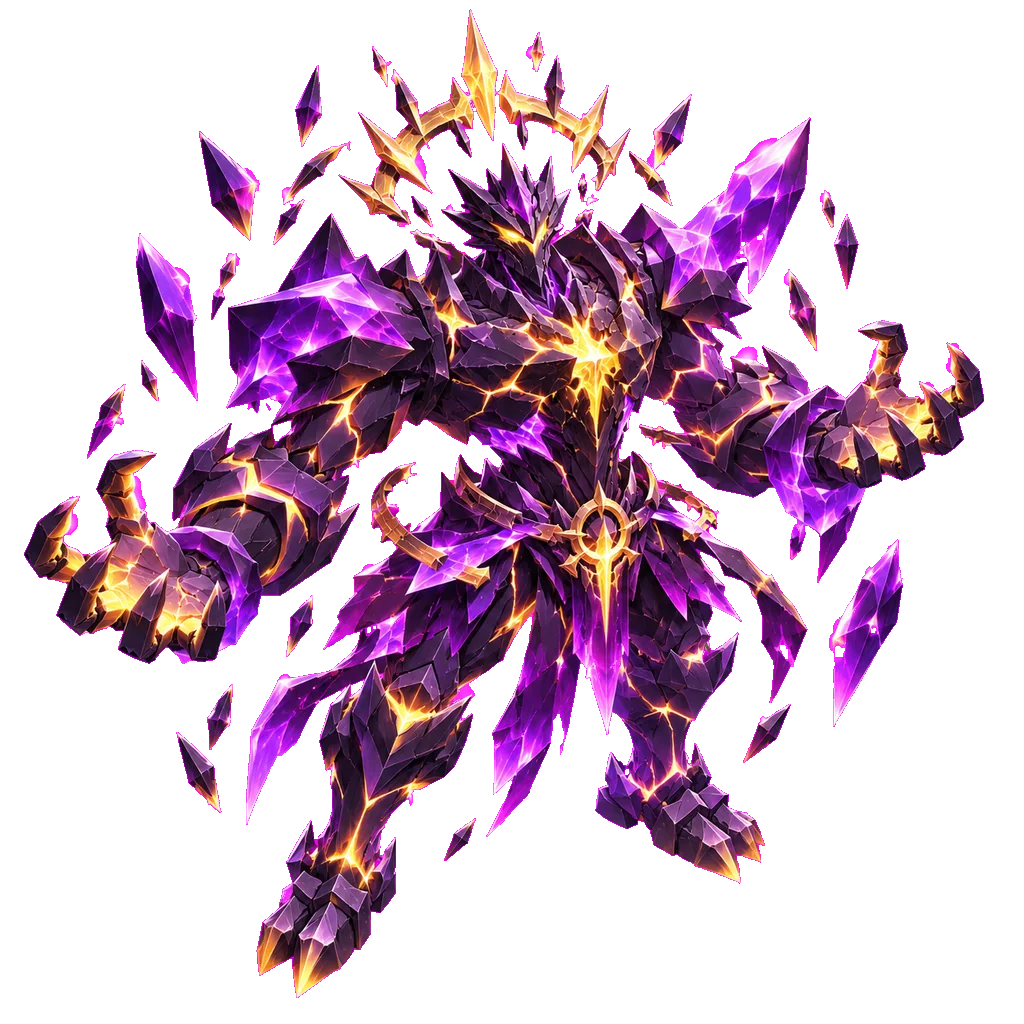
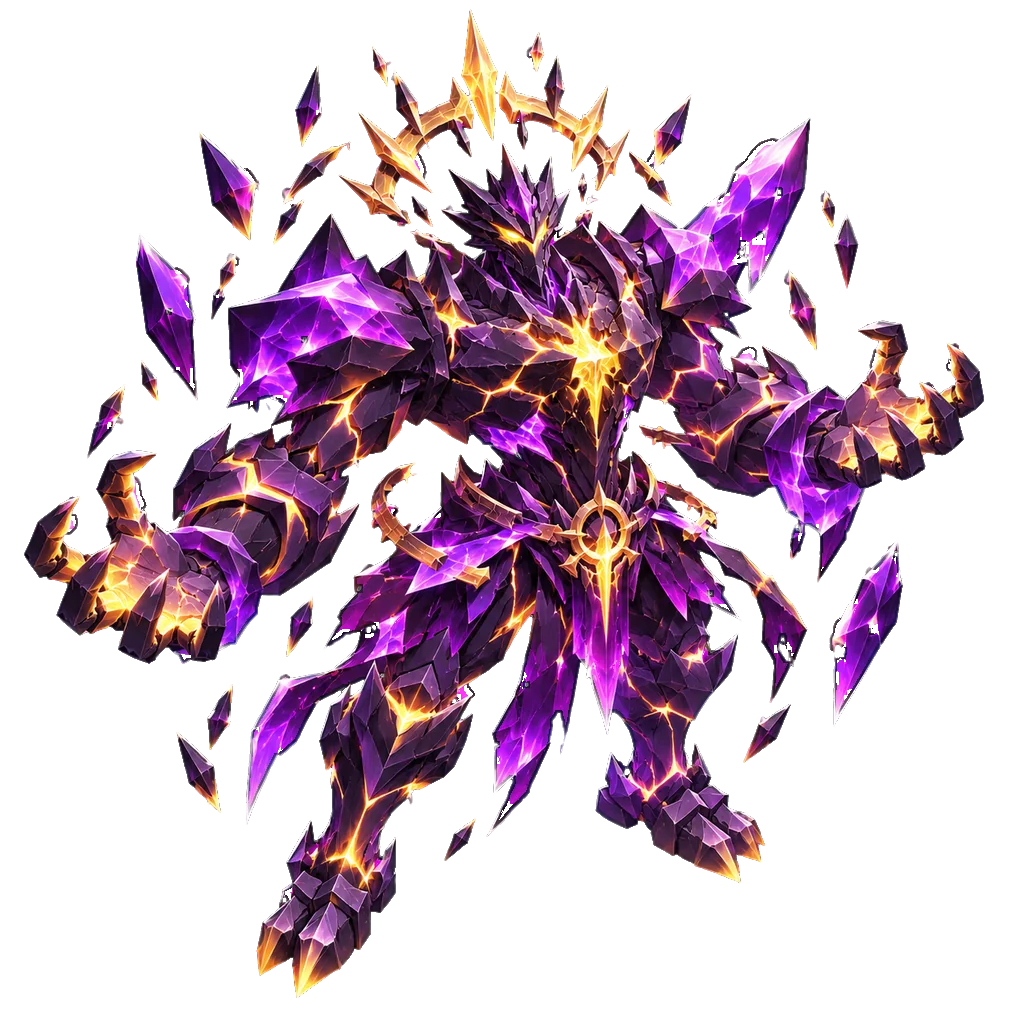
Art : nouveau détourage sans liseré rose (images détourées uniquement)
finir.py : le magenta caché sous les pixels transparents est remplacé par la couleur
du sujet (le WebP le faisait baver sur le bord), les mélanges sujet + magenta du bord
deviennent transparents, et le détourage passe avant le raccord des bords.
Mêmes noms et mêmes tailles ; les images non détourées ne changent pas.

diff --git a/tools/art/finir.py b/tools/art/finir.py
@@ -1,10 +1,10 @@
 #!/usr/bin/env python3
-"""Kevblast : finit les images brutes de Codex.
+"""Finit les images brutes de Codex.
 Usage : python finir.py PROMPTS_JSON DOSSIER_BRUT DOSSIER_SORTIE [fichier ...]
 - recadre (centre, cover) puis redimensionne à la taille exacte demandée ;
 - si detourer : fond magenta #FF00FF -> transparent (tolérance + bord adouci + suppression du halo rose) ;
 - si raccord: N (dans le JSON) ou RACCORD="nom:N" (environnement), fond les N px des bords gauche/droite (panoramas en boucle) ;
-- enregistre <fichier>.webp qualité 85.
+- enregistre <fichier>.webp qualité 85, ou au chemin « sortie » du JSON (.png accepté, sous-dossiers créés).
 """
 import json, sys
 from pathlib import Path
@@ -37,6 +37,8 @@ def detourer(img):
     for x, y in [(x, 0) for x in range(0, ww, 8)] + [(x, hh - 1) for x in range(0, ww, 8)] + \
                 [(0, y) for y in range(0, hh, 8)] + [(ww - 1, y) for y in range(0, hh, 8)]:
         if proche.getpixel((x, y)) == 255: ImageDraw.floodfill(proche, (x, y), 128)
+    # + les poches de magenta quasi pur enfermées dans le sujet (entre deux pièces, sous un bras…)
+    proche = Image.fromarray(np.where((np.asarray(proche) == 128) | (d < 25), 128, 0).astype(np.uint8))
     fond = np.asarray(proche.point(lambda v: 255 if v == 128 else 0).filter(ImageFilter.MaxFilter(3))) > 0
     alpha = np.where(fond, alpha, 1.0)
     # adoucissement léger du bord
@@ -49,11 +51,13 @@ def detourer(img):
     with np.errstate(divide="ignore", invalid="ignore"):
         rec = (a - (1 - alpha[..., None]) * mag) / np.maximum(alpha[..., None], 1e-3)
     a = np.where(bord[..., None], np.clip(rec, 0, 255), a)
-    # anti-halo : sur les bords, limite r et b au-dessus de g (teinte rose résiduelle)
+    # anti-halo : près du fond (2 px), retire la teinte magenta résiduelle (r et b au-dessus de g)
+    pres = np.asarray(Image.fromarray((fond * 255).astype(np.uint8)).filter(ImageFilter.MaxFilter(5))) > 0
+    zone = pres & (alpha > 0)
     spill = np.minimum(a[..., 0], a[..., 2]) - a[..., 1]
-    lim = bord & (spill > 40)
-    a[..., 0] = np.where(lim, a[..., 0] - (spill - 40) * 0.5, a[..., 0])
-    a[..., 2] = np.where(lim, a[..., 2] - (spill - 40) * 0.5, a[..., 2])
+    lim = zone & (spill > 10)
+    a[..., 0] = np.where(lim, a[..., 0] - (spill - 10), a[..., 0])
+    a[..., 2] = np.where(lim, a[..., 2] - (spill - 10), a[..., 2])
     # bouche les petits trous (pixels du sujet presque magenta) : fermeture 3x3 du masque,
     # et les pixels rebouchés prennent la couleur médiane de leurs voisins opaques
     m = Image.fromarray((alpha * 255).astype(np.uint8))
@@ -64,6 +68,32 @@ def detourer(img):
         med = np.asarray(Image.fromarray(opaque).filter(ImageFilter.MaxFilter(3))).astype(np.float32)
         a[trou] = med[trou]
         alpha = np.maximum(alpha, ferme)
+    # dernière passe : à moins de 3 px de la transparence, un pixel resté presque magenta est du fond
+    d2 = np.sqrt((255 - a[..., 0]) ** 2 + a[..., 1] ** 2 + (255 - a[..., 2]) ** 2)
+    transp = Image.fromarray(((alpha < 0.5) * 255).astype(np.uint8)).filter(ImageFilter.MaxFilter(7))
+    alpha = np.where((np.asarray(transp) > 0) & (d2 < 80) & (np.abs(a[..., 0] - a[..., 2]) < 30), 0.0, alpha)
+    # puis, sur 2 px de bord, les mélanges sujet + magenta (r ≈ b, tous deux nettement au-dessus de g)
+    # deviennent transparents : les griser laisserait un contour sombre sur fond clair
+    bande = (np.asarray(Image.fromarray(((alpha < 0.5) * 255).astype(np.uint8)).filter(ImageFilter.MaxFilter(5))) > 0) & (alpha >= 0.5)
+    sp = np.minimum(a[..., 0], a[..., 2]) - a[..., 1]
+    mel = bande & (np.abs(a[..., 0] - a[..., 2]) < 30) & (sp > 25)
+    alpha = np.where(mel, 0.0, alpha)
+    # sous les pixels transparents, remplace le magenta par la couleur du sujet voisin :
+    # sinon le sous-échantillonnage des couleurs du WebP fait baver un liseré rose sur le bord
+    poids = (alpha > 0.5).astype(np.float32)
+    def flou(x, r):  # flou boîte séparable (numpy), rayon r
+        for ax in (0, 1):
+            p_ = np.pad(x, [(r + 1, r) if i == ax else (0, 0) for i in range(2)], mode="edge")
+            c = np.cumsum(p_, axis=ax)
+            x = (np.take(c, range(2 * r + 1, c.shape[ax]), axis=ax) - np.take(c, range(0, c.shape[ax] - 2 * r - 1), axis=ax)) / (2 * r + 1)
+        return x
+    for r in (2, 6, 18):
+        wsum = flou(poids, r)
+        if (wsum > 1e-4).any():
+            for c in range(3):
+                col = flou(a[..., c] * poids, r) / np.maximum(wsum, 1e-4)
+                a[..., c] = np.where((alpha <= 0.5) & (wsum > 1e-4) & (poids == 0), col, a[..., c])
+            poids = np.maximum(poids, (wsum > 1e-4).astype(np.float32) * (alpha <= 0.5))
     out = np.dstack([np.clip(a, 0, 255), alpha * 255]).astype(np.uint8)
     return Image.fromarray(out)
 
@@ -85,11 +115,14 @@ def main():
         if not src.exists(): print("absent", src); continue
         w, h = map(int, im["taille"].split("x"))
         img = cover(Image.open(src).convert("RGB"), w, h)
+        # détourer d'abord : fondre les bords avant mélangerait le magenta au sujet
+        if im.get("detourer"): img = detourer(img)
         bande = im.get("raccord") or RACCORD.get(im["fichier"])
         if bande: img = raccorder(img, int(bande))
-        if im.get("detourer"): img = detourer(img)
-        dst = Path(sortie) / f"{im['fichier']}.webp"
-        img.save(dst, "WEBP", quality=85, method=6)
+        dst = Path(sortie) / im.get("sortie", f"{im['fichier']}.webp")
+        dst.parent.mkdir(parents=True, exist_ok=True)
+        if dst.suffix == ".png": img.save(dst, "PNG", optimize=True)
+        else: img.save(dst, "WEBP", quality=85, method=6)
         print(f"{dst.name} {w}x{h} {dst.stat().st_size // 1024} Ko")
 
 if __name__ == "__main__":
